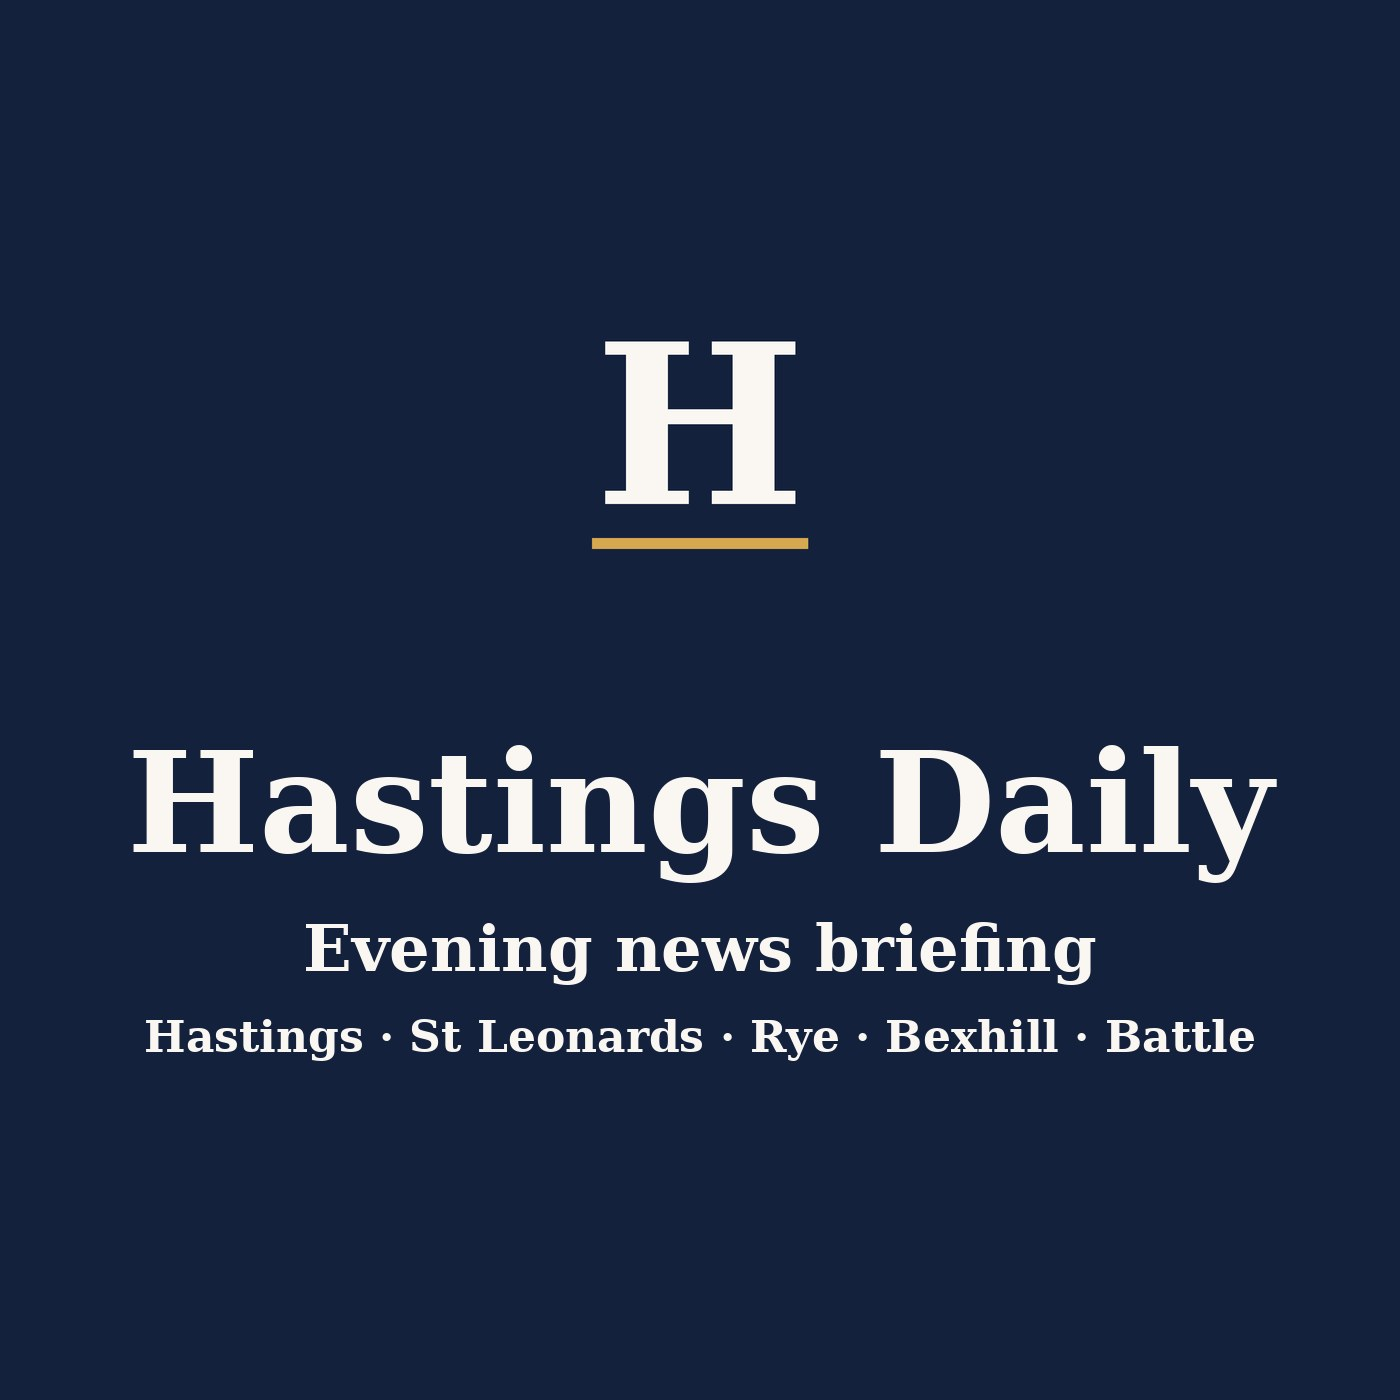
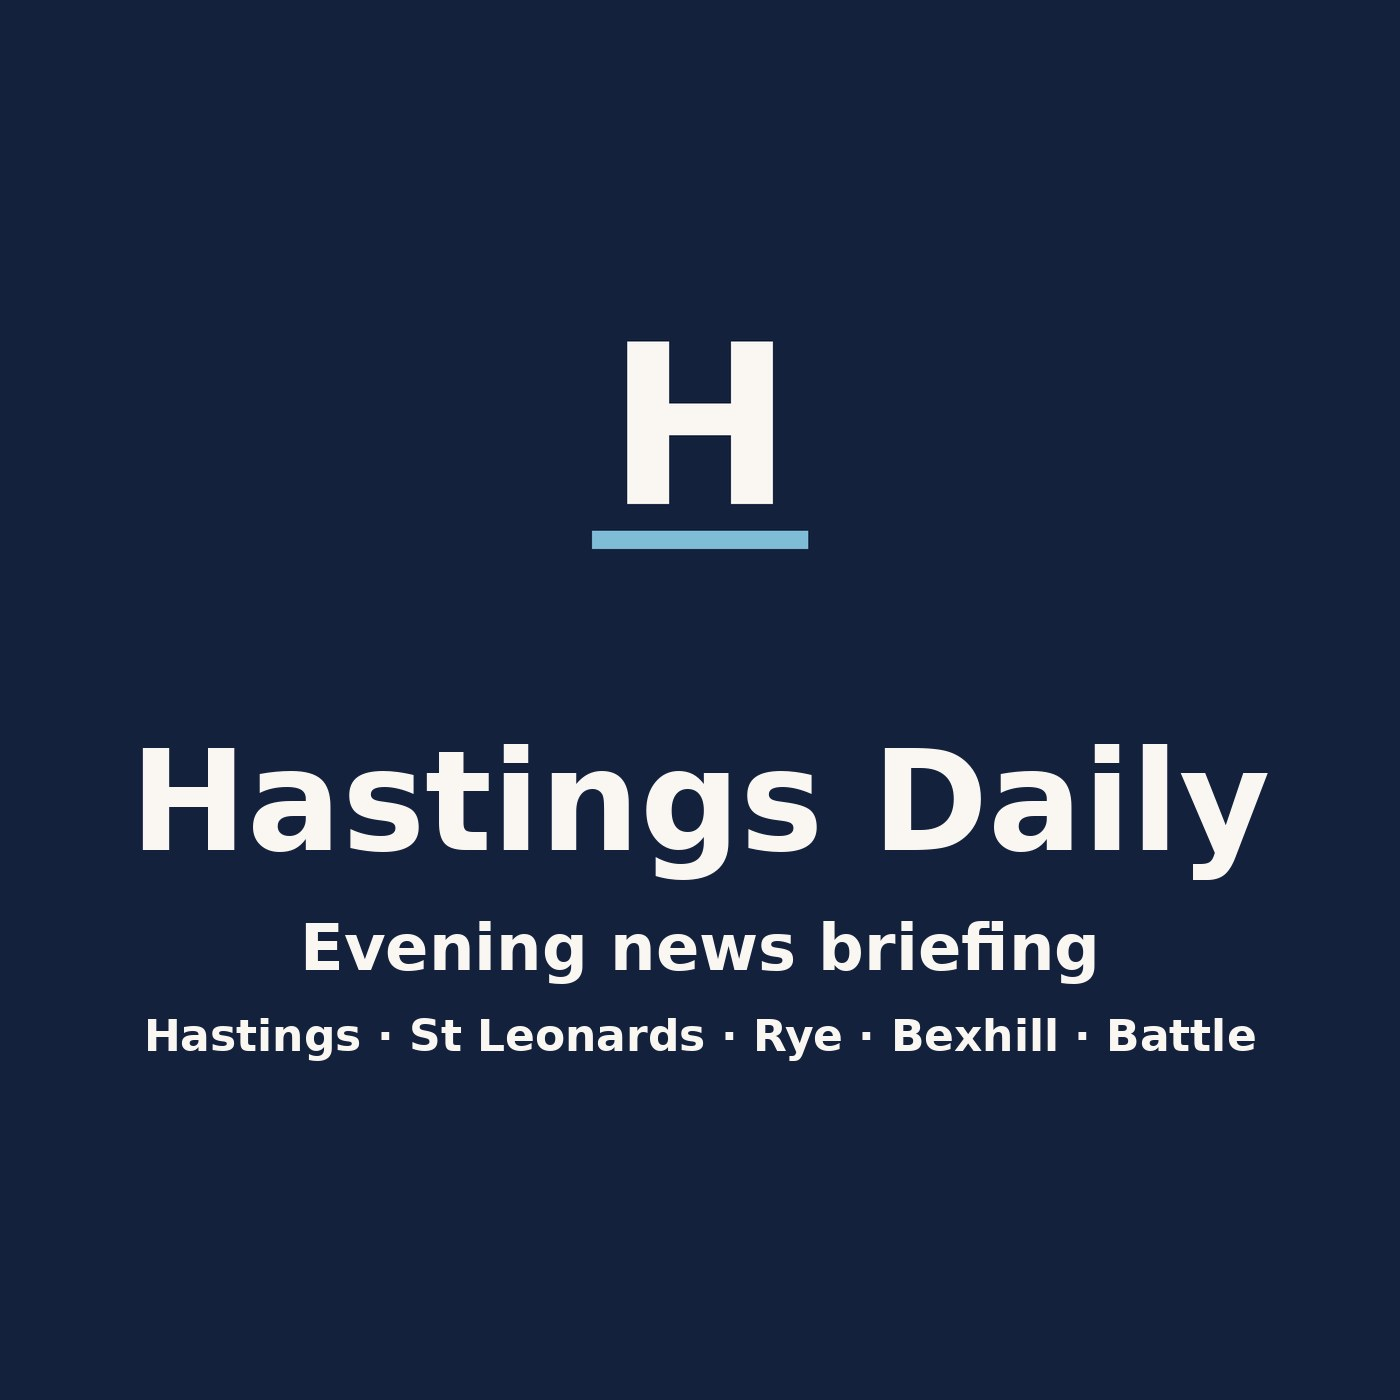
Hastings Daily: 45 stories

diff --git a/assets/css/site.css b/assets/css/site.css
@@ -12,7 +12,7 @@
   --sea: #1a5d79;          /* accent: Channel blue */
   --wash: #dde8ee;
   --signal: #9a5b08;       /* attention: updated / held */
-  --mast: "UnifrakturMaguntia", "Old English Text MT", "Textura", serif;
+  --mast: "Archivo", "Arial Black", "Helvetica Neue", system-ui, sans-serif;   /* modern wordmark */
   --serif: "Newsreader", "Iowan Old Style", Georgia, serif;
   --sans: "Archivo Narrow", "Arial Narrow", "Roboto Condensed", system-ui, sans-serif;
   --radius: 6px;
@@ -74,7 +74,8 @@ main.wrap { padding-block: 24px 56px; }
 .site-header { position: sticky; top: env(safe-area-inset-top, 0px); z-index: 5; background: var(--paper); border-bottom: 1px solid var(--rule); }
 body::before { content: ""; position: fixed; inset: 0 0 auto; height: env(safe-area-inset-top, 0px); z-index: 10; background: var(--paper); }
 .header-row { display: flex; align-items: center; justify-content: space-between; gap: 12px; height: 56px; }
-.brand { font: 400 1.7rem/1 var(--mast); text-decoration: none; color: var(--ink); white-space: nowrap; }
+.brand { font: 800 1.35rem/1 var(--mast); font-stretch: 112%; letter-spacing: -.035em; text-decoration: none; color: var(--ink); white-space: nowrap; }
+.wm-accent { color: var(--sea); }
 .nav { display: flex; align-items: center; gap: 2px; }
 .nav a { text-decoration: none; padding: 8px 10px; color: var(--ink-2); font-size: .95rem; display: flex; }
 .nav a:hover { color: var(--ink); }
@@ -91,7 +92,8 @@ body::before { content: ""; position: fixed; inset: 0 0 auto; height: env(safe-a
 
 /* Masthead (home) */
 .masthead { display: grid; grid-template-columns: 1fr auto 1fr; align-items: center; gap: 20px; padding-block: 8px 14px; }
-.mast-title { font: 400 clamp(2.9rem, 9vw, 5.4rem)/1 var(--mast); text-align: center; margin: 0; white-space: nowrap; }
+.mast-title { font: 800 clamp(2.4rem, 8vw, 4.6rem)/1 var(--mast); font-stretch: 112%; letter-spacing: -.045em;
+  text-align: center; margin: 0; white-space: nowrap; }
 .mast-title a { text-decoration: none; }
 .ear { font-family: var(--sans); font-size: .85rem; color: var(--ink-2); display: flex; gap: 10px; align-items: center; min-width: 0; }
 .ear-right { justify-content: flex-end; text-align: right; }
@@ -246,7 +248,7 @@ mark { background: color-mix(in srgb, var(--signal) 30%, transparent); color: in
 
 /* Footer */
 .site-footer { border-top: 3px double var(--ink); padding-block: 28px 44px; color: var(--ink-2); font: .95rem var(--sans); }
-.site-footer .brand { font-size: 1.6rem; display: inline-block; margin-bottom: 10px; }
+.site-footer .brand { font-size: 1.3rem; display: inline-block; margin-bottom: 10px; }
 
 @media (prefers-reduced-motion: reduce) { * { transition: none !important; } }
 

diff --git a/_layouts/default.html b/_layouts/default.html
@@ -33,7 +33,7 @@
 <link rel="alternate" type="application/rss+xml" title="{{ site.title | escape }} evening briefing" href="{{ '/podcast.xml' | relative_url }}">
 <link rel="preconnect" href="https://fonts.googleapis.com">
 <link rel="preconnect" href="https://fonts.gstatic.com" crossorigin>
-<link rel="stylesheet" href="https://fonts.googleapis.com/css2?family=Archivo+Narrow:wght@400;600;700&family=Newsreader:ital,opsz,wght@0,6..72,400;0,6..72,600;1,6..72,400&family=UnifrakturMaguntia&display=swap">
+<link rel="stylesheet" href="https://fonts.googleapis.com/css2?family=Archivo:wdth,wght@112,800&family=Archivo+Narrow:wght@400;600;700&family=Newsreader:ital,opsz,wght@0,6..72,400;0,6..72,600;1,6..72,400&display=swap">
 <script>
   // Theme: "system" (default), "light" or "dark", remembered per browser. Set before paint.
   (function () { try { var t = localStorage.getItem("theme"); if (t === "light" || t === "dark") document.documentElement.dataset.theme = t; } catch (e) {} })();
@@ -49,7 +49,7 @@
     {%- if page.url == "/" %}
     <span class="util-date">{{ site.data.latest.today_label }}</span>
     {%- else %}
-    <a class="brand" href="{{ '/' | relative_url }}">{{ site.title }}</a>
+    <a class="brand" href="{{ '/' | relative_url }}" aria-label="{{ site.title }}">{% include wordmark.html %}</a>
     {%- endif %}
     <nav class="nav" aria-label="Main">
       <a href="{{ '/whats-on/' | relative_url }}">What's on</a>
@@ -77,7 +77,7 @@
 </main>
 <footer class="site-footer">
   <div class="wrap">
-    <a class="brand" href="{{ '/' | relative_url }}">{{ site.title }}</a>
+    <a class="brand" href="{{ '/' | relative_url }}" aria-label="{{ site.title }}">{% include wordmark.html %}</a>
     <p class="footer-actions">
       <a class="button ghost" href="{{ '/podcast/' | relative_url }}">🎧 Evening briefing</a>
       <a class="button ghost" href="{{ '/feeds/' | relative_url }}">RSS feeds</a>

diff --git a/index.html b/index.html
@@ -17,7 +17,7 @@ layout: default
     </div>
     {%- endfor %}
   </div>
-  <h1 class="mast-title"><a href="{{ '/' | relative_url }}">{{ site.title }}</a></h1>
+  <h1 class="mast-title"><a href="{{ '/' | relative_url }}" aria-label="{{ site.title }}">{% include wordmark.html %}</a></h1>
   <div class="ear ear-right">
     {%- if L.briefing %}
     <span>Evening briefing<br><a href="{{ '/podcast/' | relative_url }}"><strong>🎧 Listen · {{ L.briefing.length }}</strong></a></span>

diff --git a/_includes/wordmark.html b/_includes/wordmark.html
@@ -1,0 +1,1 @@
+<span class="wm">Hastings</span> <span class="wm-accent">Daily</span>

diff --git a/_stories/2026-10-28/one-in-ten-young-adults-in-hastings-on-unemployment-benefits.md b/_stories/2026-10-28/one-in-ten-young-adults-in-hastings-on-unemployment-benefits.md
@@ -24,23 +24,27 @@ sources:
   name: The Argus
 image:
   card:
-    url: /assets/media/abstract/business-1/card.webp
+    url: /assets/media/story/37/card.webp
     w: 400
-    h: 267
+    h: 300
   medium:
-    url: /assets/media/abstract/business-1/medium.webp
+    url: /assets/media/story/37/medium.webp
     w: 800
-    h: 533
+    h: 600
   large:
-    url: /assets/media/abstract/business-1/large.webp
+    url: /assets/media/story/37/large.webp
     w: 1400
-    h: 933
+    h: 1049
   share:
-    url: /assets/media/abstract/business-1/share.jpg
-  color: '#255037'
-  alt: ''
-  abstract: true
-  default: true
+    url: /assets/media/story/37/share.jpg
+  color: '#fbfbfc'
+  alt: 'Data for 1881–1970 from Unemployment statistics from 1881 to the present day (1996) by James Madden and Paul McDonald. Data for 1971–2025 from ONS unemployment rate bulletin8 (Unemployment rate (aged '
+  artist: Firebrace
+  match: generic
+  licence: CC BY-SA 4.0
+  licence_url: https://creativecommons.org/licenses/by-sa/4.0
+  page: https://commons.wikimedia.org/wiki/File:UK_unemployment_rate.png
+  default: false
 related:
 - url: /2026/10/28/hastings-to-receive-1m-from-the-government-s-derelict-buildings-fund/
   title: Hastings to receive £1m from the government's derelict buildings fund

diff --git a/_stories/2026-10-28/hastings-to-get-1-2-million-fairness-fund-for-community-projects.md b/_stories/2026-10-28/hastings-to-get-1-2-million-fairness-fund-for-community-projects.md
@@ -27,23 +27,27 @@ sources:
 comment: With the flagship children's programme already earmarked, it will be worth watching how much of the £1.2 million reaches the smaller grassroots groups the fund is meant to serve.
 image:
   card:
-    url: /assets/media/abstract/council-0/card.webp
+    url: /assets/media/story/39/card.webp
     w: 400
-    h: 267
+    h: 187
   medium:
-    url: /assets/media/abstract/council-0/medium.webp
+    url: /assets/media/story/39/medium.webp
     w: 800
-    h: 533
+    h: 374
   large:
-    url: /assets/media/abstract/council-0/large.webp
+    url: /assets/media/story/39/large.webp
     w: 1400
-    h: 933
+    h: 654
   share:
-    url: /assets/media/abstract/council-0/share.jpg
-  color: '#1e4858'
-  alt: ''
-  abstract: true
-  default: true
+    url: /assets/media/story/39/share.jpg
+  color: '#949791'
+  alt: Town centre, Hastings, England.
+  artist: Ross Burgess
+  match: generic
+  licence: CC BY-SA 3.0
+  licence_url: http://creativecommons.org/licenses/by-sa/3.0/
+  page: https://commons.wikimedia.org/wiki/File:Hastings_town_centre.JPG
+  default: false
 checked: '2026-10-28T13:05:34+00:00'
 related:
 - url: /2026/10/28/hastings-to-receive-1m-from-the-government-s-derelict-buildings-fund/

diff --git a/_stories/2026-10-28/combe-valley-way-to-close-overnight-for-bridge-inspections-in-mid.md b/_stories/2026-10-28/combe-valley-way-to-close-overnight-for-bridge-inspections-in-mid.md
@@ -27,23 +27,27 @@ sources:
   name: Hastings Observer
 image:
   card:
-    url: /assets/media/abstract/traffic-1/card.webp
+    url: /assets/media/story/43/card.webp
     w: 400
     h: 267
   medium:
-    url: /assets/media/abstract/traffic-1/medium.webp
+    url: /assets/media/story/43/medium.webp
     w: 800
-    h: 533
+    h: 534
   large:
-    url: /assets/media/abstract/traffic-1/large.webp
-    w: 1400
-    h: 933
+    url: /assets/media/story/43/large.webp
+    w: 1024
+    h: 684
   share:
-    url: /assets/media/abstract/traffic-1/share.jpg
-  color: '#604f17'
-  alt: ''
-  abstract: true
-  default: true
+    url: /assets/media/story/43/share.jpg
+  color: '#7a928d'
+  alt: A2690 Combe Valley Way
+  artist: Robin Webster
+  match: exact
+  licence: CC BY-SA 2.0
+  licence_url: https://creativecommons.org/licenses/by-sa/2.0
+  page: https://commons.wikimedia.org/wiki/File:A2690_Combe_Valley_Way_-_geograph.org.uk_-_6140964.jpg
+  default: false
 checked: '2026-10-28T19:04:32+00:00'
 ---
 {% raw %}
